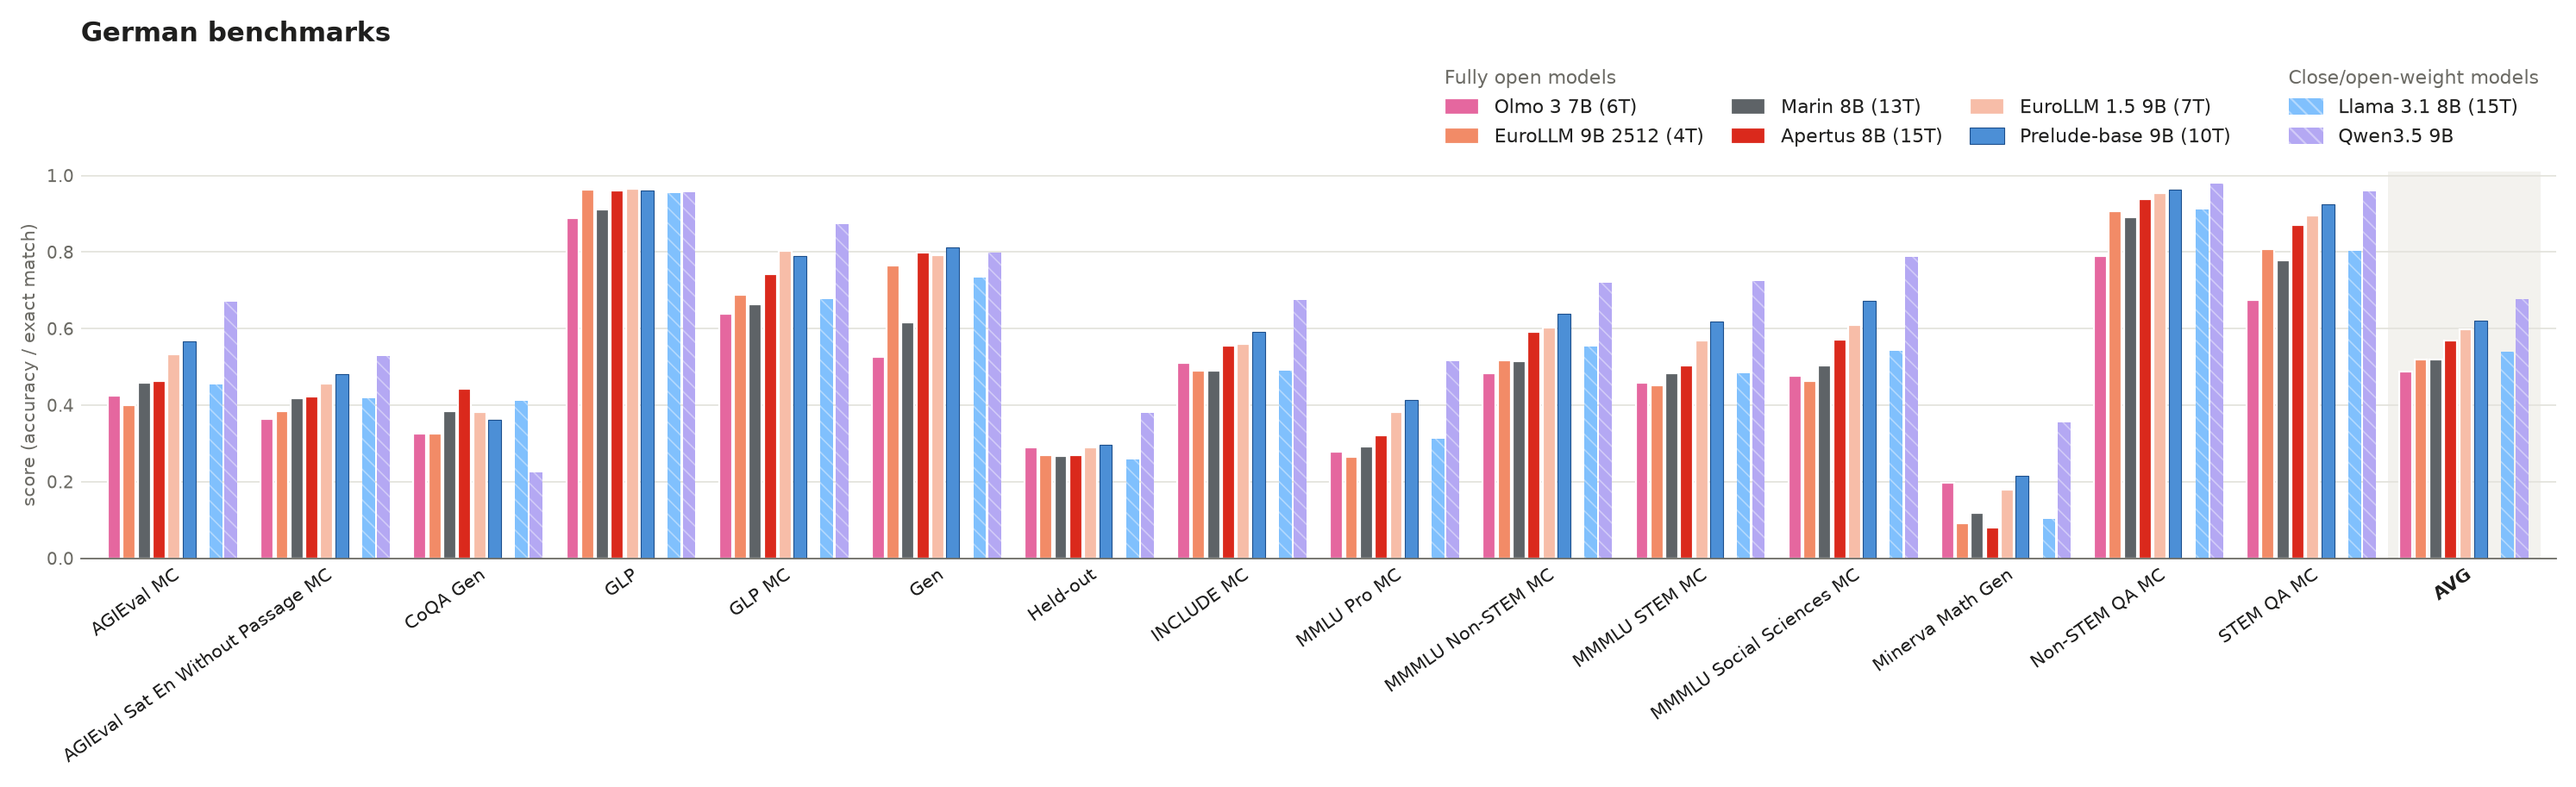
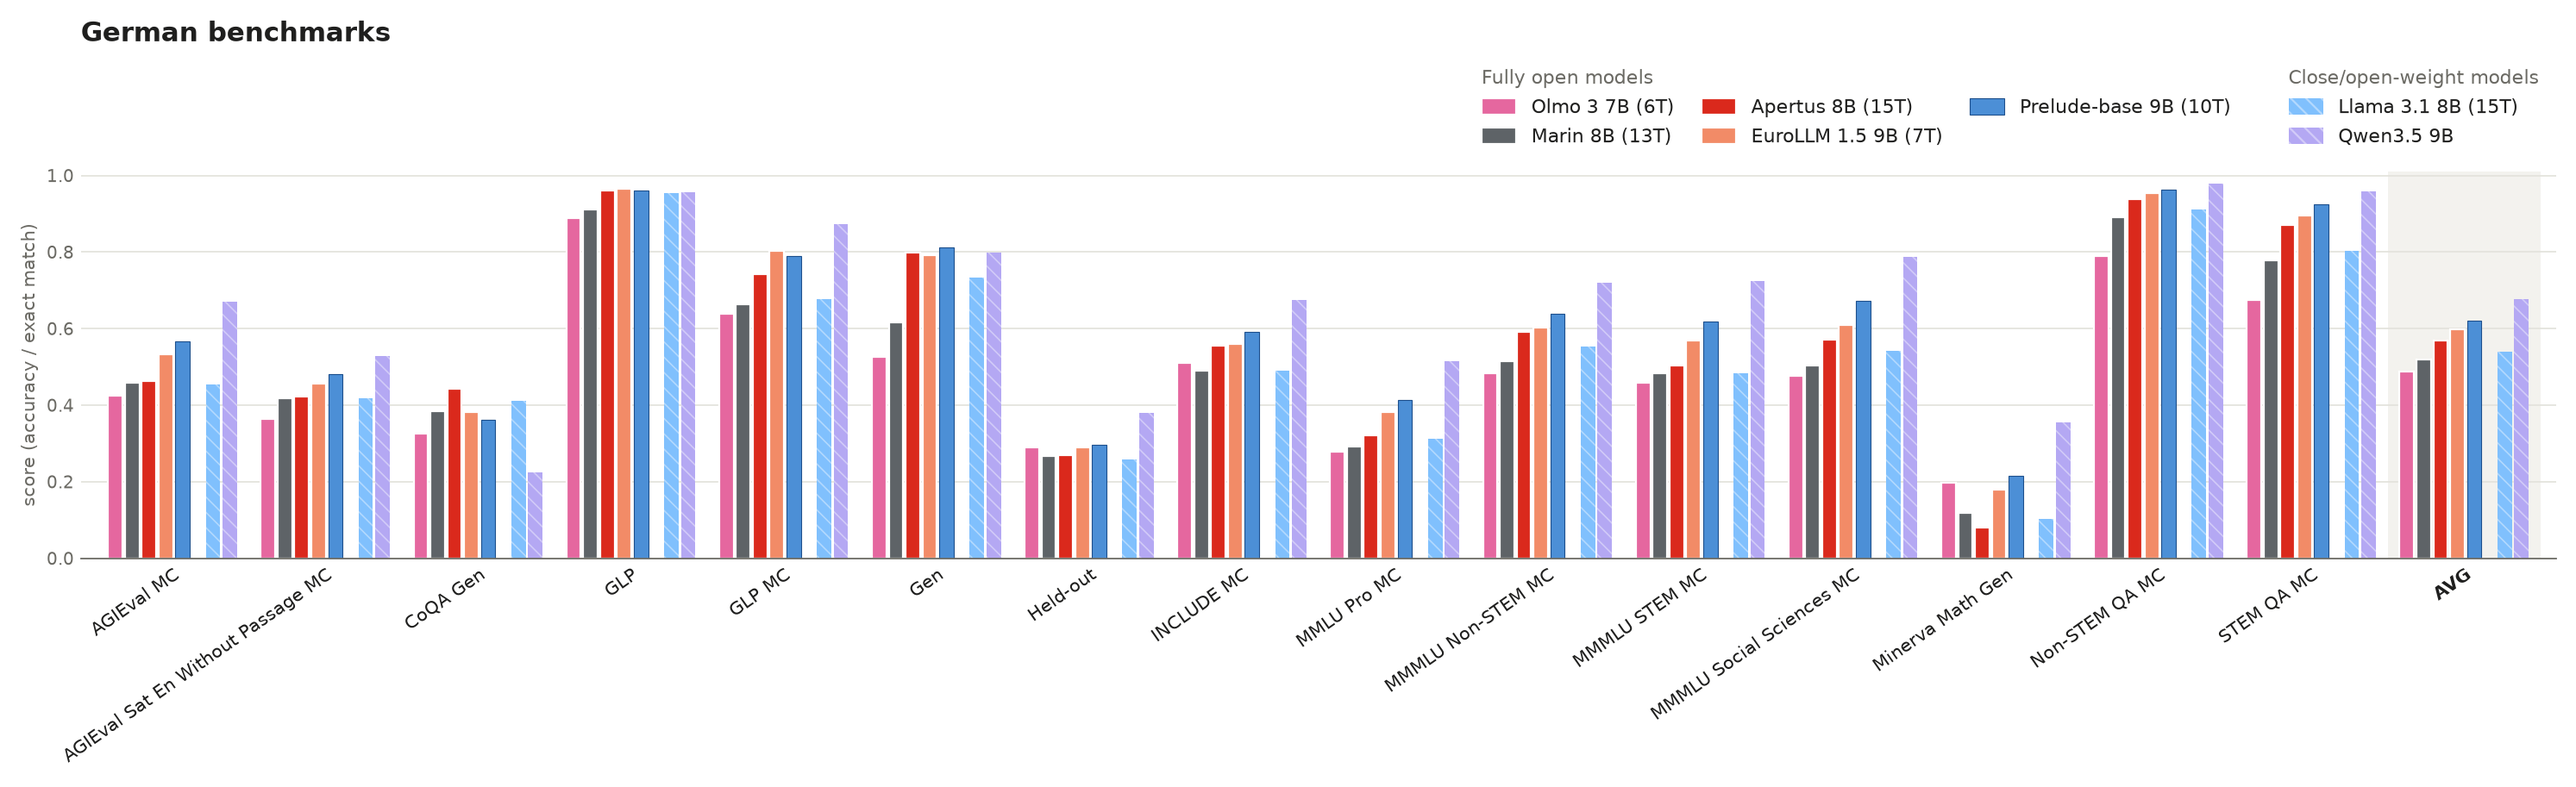
update

Changed region(s): [[0.0311, 0.2453, 0.9963, 0.7054], [0.5604, 0.092, 0.8718, 0.184]]

diff --git a/prelude-evaluations-model-card/plot_results.py b/prelude-evaluations-model-card/plot_results.py
@@ -12,8 +12,9 @@ German, Norwegian and Finnish.
 
 For each category: a markdown table (models x benchmark groups, plus AVG, best
 value of each column in bold) and a grouped bar plot
-figures/plot_results_<category>_all.png (English and Multilingual also
-_decontaminated_only / _non_decontaminated_only). The tables and figures are
+figures/plot_results_<category>_all.svg (English and Multilingual also
+_decontaminated_only / _non_decontaminated_only), with .png and .pdf copies.
+The README and the model card link the vector .svg, crisp at any resolution. The tables and figures are
 also written to README.md (decontaminated_only for English and Multilingual,
 all for German, Norwegian and Finnish), whose text above "# Results" is kept and
 everything from it on regenerated. Each
@@ -180,7 +181,7 @@ TRANSLATION_METRICS = ["chrf", "chrf++", "bleu"]   # side panel, not in AVG
 # AVG, weakest first), then Prelude.
 ENG_DEU_MODELS = {
     "prelude_anneal2t": "Prelude 9B + 2T anneal",
-    "eurollm_9B_2512": "EuroLLM 9B 2512",
+    #"eurollm_9B_2512": "EuroLLM 9B 2512",   # superseded by EuroLLM 1.5
     "eurollm_1.5_9B": "EuroLLM 1.5 9B",
     "apertus_8b": "Apertus 8B",
     "olmo_3_1025_7b": "Olmo 3 7B",
@@ -200,7 +201,7 @@ MULTILINGUAL_MODELS = {
     "meta-llama/Llama-3.1-8B": "Llama 3.1 8B",
 }
 # NorEval covers ~80 models; the baselines are picked automatically as those
-# also used for English / German / Multilingual (see norwegian_models).
+# also used for English / German (see norwegian_models).
 NOREVAL_PRELUDE = {"openeurollm/prelude-base": "Prelude 9B + 2T anneal"}
 NOREVAL_SHOTS = 0
 # Shown names where they differ from the internal one (both Prelude rows are
@@ -272,7 +273,7 @@ STYLES = {   # name -> (colour, style)
     # EuroLLM is Apache 2.0; counted as open (data not released)
     "EuroLLM 9B": (lighten("#ec5926", 0.3), OPEN),    # Utter logo orange
     "EuroLLM 9B 2512": (lighten("#ec5926", 0.3), OPEN),
-    "EuroLLM 1.5 9B": (lighten("#ec5926", 0.6), OPEN),   # lighter: shown next to 2512
+    "EuroLLM 1.5 9B": (lighten("#ec5926", 0.3), OPEN),
     "Qwen3 8B": (lighten("#6950e8"), WEIGHTS),    # Qwen logo color
     "Qwen3.5 9B": (lighten("#6950e8"), WEIGHTS),    # Qwen logo color
     "Llama 3.1 8B": (lighten("#0081fb"), WEIGHTS),    # Meta logo blue
@@ -347,8 +348,8 @@ def latest(df: pd.DataFrame) -> pd.DataFrame:
 # tokens), shown in the row label.
 KNOWN_TOKENS = {
     "EuroLLM 9B": 4e12,         # EuroLLM-9B model card
-    "EuroLLM 9B 2512": 4e12,    # as in the ellamind scores (NorEval lacks it)
-    "Llama 3.1 8B": 15e12,      # as in the ellamind scores (NorEval lacks it)
+    "EuroLLM 9B 2512": 4e12,    # as in the ellamind scores
+    "Llama 3.1 8B": 15e12,      # as in the ellamind scores
     "Olmo 3 7B": 6e12,          # 6.1T in the ellamind scores
     "Apertus 8B": 15e12,        # as in the ellamind scores
     "EuroLLM 1.5 9B": 7e12,
@@ -430,12 +431,10 @@ def norm_name(name: str) -> str:
 
 
 def norwegian_models(df: pd.DataFrame) -> dict[str, str]:
-    """NorEval model id -> our model name, for Prelude and every baseline of
-    the other categories that NorEval has. The HF id is matched before the
-    display name, so EuroLLM-9B-2512 maps to "EuroLLM 9B 2512" rather than
-    the original "EuroLLM 9B"."""
-    ours = [n for n in (*ENG_DEU_MODELS.values(), *MULTILINGUAL_MODELS.values())
-            if not n.startswith("Prelude")]
+    """NorEval model id -> our model name, for Prelude and every English /
+    German baseline that NorEval has (the multilingual list is not used: its
+    "EuroLLM 9B" would match EuroLLM-9B-2512, superseded by EuroLLM 1.5)."""
+    ours = [n for n in ENG_DEU_MODELS.values() if not n.startswith("Prelude")]
     by_norm = {norm_name(n): n for n in ours}
     models = dict(NOREVAL_PRELUDE)
     for model, display in df[["model", "model_display_name"]].drop_duplicates().values:
@@ -653,10 +652,16 @@ def plot(name: str, df: pd.DataFrame, acc: pd.DataFrame,
     legend_top = legend_boxes(fig, ax, names)   # after layout: positions final
     fig.text(ax.get_position().x0, legend_top + 0.1 / height, f"{name} benchmarks",
              ha="left", va="bottom", fontsize=14, fontweight="semibold", color=INK)
-    fig.savefig(out, dpi=160, facecolor="white", bbox_inches="tight",
-                pad_inches=0.15)
+    # Vector .svg for the README / model card, plus .png and .pdf copies.
+    # Fixed hash salt and no dates so unchanged figures give identical files.
+    plt.rcParams["svg.hashsalt"] = "prelude"
+    base = os.path.splitext(out)[0]
+    for ext, meta in ((".svg", {"Date": None}), (".png", {}),
+                      (".pdf", {"CreationDate": None, "ModDate": None})):
+        fig.savefig(base + ext, dpi=160, facecolor="white", bbox_inches="tight",
+                    pad_inches=0.15, metadata=meta)
+        print(f"wrote {base + ext}")
     plt.close(fig)
-    print(f"wrote {out}")
 
 
 README_INTRO = """# Prelude evaluations
@@ -766,7 +771,7 @@ def main():
         subsets = (SUBSETS if name in DECONTAMINATION_SPLITS
                    else {"all": SUBSETS["all"]})
         for suffix, (title, keep) in subsets.items():
-            figure = f"figures/plot_results_{name.lower()}_{suffix}.png"
+            figure = f"figures/plot_results_{name.lower()}_{suffix}.svg"
             md = report(name + title, df[df["task"].map(keep)], figure)
             if suffix == ("decontaminated_only" if len(subsets) > 1 else "all"):
                 sections.append((name + title, figure, md))

diff --git a/prelude-evaluations-model-card/README.md b/prelude-evaluations-model-card/README.md
@@ -31,16 +31,15 @@ model repo in one commit, which needs an HF token with write access
 
 # Results
 
-Automatically generated by `plot_results.py` on 2026-11-18; do not edit below this line.
+Automatically generated by `plot_results.py` on 2026-11-20; do not edit below this line.
 
 ## English (decontaminated only)
 
-![English (decontaminated only) results](figures/plot_results_english_decontaminated_only.png)
+![English (decontaminated only) results](figures/plot_results_english_decontaminated_only.svg)
 
 | model | GPQA | Gen | MMLU Humanities MC | MMLU Other MC | MMLU STEM MC | MMLU Social Sciences MC | Math | Minerva Math Gen | Non-STEM QA MC | STEM QA MC | AVG |
 |---|---:|---:|---:|---:|---:|---:|---:|---:|---:|---:|---:|
 | ***Fully open models*** | | | | | | | | | | | |
-| EuroLLM 9B 2512 (4T) | 0.29 | 0.72 | 0.62 | 0.61 | 0.48 | 0.64 | 0.07 | 0.12 | 0.73 | 0.77 | 0.50 |
 | Apertus 8B (15T) | 0.29 | 0.76 | 0.69 | 0.68 | 0.54 | 0.74 | 0.31 | 0.13 | 0.78 | 0.85 | 0.58 |
 | Marin 8B (13T) | 0.27 | **0.79** | 0.71 | 0.71 | 0.59 | 0.77 | 0.44 | 0.24 | 0.81 | 0.86 | 0.62 |
 | EuroLLM 1.5 9B (7T) | 0.30 | 0.76 | 0.72 | 0.72 | 0.61 | 0.77 | 0.47 | 0.31 | 0.79 | 0.87 | 0.63 |
@@ -52,7 +51,7 @@ Automatically generated by `plot_results.py` on 2026-11-18; do not edit below th
 
 ## Multilingual (decontaminated only)
 
-![Multilingual (decontaminated only) results](figures/plot_results_multilingual_decontaminated_only.png)
+![Multilingual (decontaminated only) results](figures/plot_results_multilingual_decontaminated_only.svg)
 
 | model | ARC Challenge MT | Belebele | Global MMLU | INCLUDE | MultiBLiMP | XCSQA | xHellaSwag | AVG |
 |---|---:|---:|---:|---:|---:|---:|---:|---:|
@@ -68,13 +67,12 @@ Automatically generated by `plot_results.py` on 2026-11-18; do not edit below th
 
 ## German
 
-![German results](figures/plot_results_german_all.png)
+![German results](figures/plot_results_german_all.svg)
 
 | model | AGIEval MC | AGIEval Sat En Without Passage MC | CoQA Gen | GLP | GLP MC | Gen | Held-out | INCLUDE MC | MMLU Pro MC | MMMLU Non-STEM MC | MMMLU STEM MC | MMMLU Social Sciences MC | Minerva Math Gen | Non-STEM QA MC | STEM QA MC | AVG |
 |---|---:|---:|---:|---:|---:|---:|---:|---:|---:|---:|---:|---:|---:|---:|---:|---:|
 | ***Fully open models*** | | | | | | | | | | | | | | | | |
 | Olmo 3 7B (6T) | 0.42 | 0.36 | 0.33 | 0.89 | 0.64 | 0.53 | 0.29 | 0.51 | 0.28 | 0.48 | 0.46 | 0.48 | 0.20 | 0.79 | 0.67 | 0.49 |
-| EuroLLM 9B 2512 (4T) | 0.40 | 0.38 | 0.32 | **0.96** | 0.69 | 0.76 | 0.27 | 0.49 | 0.26 | 0.52 | 0.45 | 0.46 | 0.09 | 0.91 | 0.81 | 0.52 |
 | Marin 8B (13T) | 0.46 | 0.42 | 0.38 | 0.91 | 0.66 | 0.62 | 0.27 | 0.49 | 0.29 | 0.51 | 0.48 | 0.50 | 0.12 | 0.89 | 0.78 | 0.52 |
 | Apertus 8B (15T) | 0.46 | 0.42 | **0.44** | **0.96** | 0.74 | 0.80 | 0.27 | 0.56 | 0.32 | 0.59 | 0.50 | 0.57 | 0.08 | 0.94 | 0.87 | 0.57 |
 | EuroLLM 1.5 9B (7T) | 0.53 | 0.46 | 0.38 | **0.96** | 0.80 | 0.79 | 0.29 | 0.56 | 0.38 | 0.60 | 0.57 | 0.61 | 0.18 | 0.95 | 0.90 | 0.60 |
@@ -85,24 +83,23 @@ Automatically generated by `plot_results.py` on 2026-11-18; do not edit below th
 
 ## Norwegian
 
-![Norwegian results](figures/plot_results_norwegian_all.png)
+![Norwegian results](figures/plot_results_norwegian_all.svg)
 
 | model | ASK GEC | MultiBLiMP SME | NCB | NRK Quiz QA NB | NRK Quiz QA NN | NoCoLA | NoReC Document | NoReC Sentence | NorBelebele | NorCommonsenseQA NB | NorCommonsenseQA NN | NorIdiom NB | NorIdiom NN | NorOpenBookQA NB | NorOpenBookQA NN | NorOpenBookQA no-fact NB | NorOpenBookQA no-fact NN | NorQuAD | NorTruthfulQA MC NB | NorTruthfulQA MC NN | SLIDE | NorSumm NB→NN | NorSumm NN→NB | Tatoeba EN→NB | Tatoeba EN→NN | Tatoeba NB→EN | Tatoeba NB→SME | Tatoeba NN→EN | Tatoeba SME→NB | AVG |
 |---|---:|---:|---:|---:|---:|---:|---:|---:|---:|---:|---:|---:|---:|---:|---:|---:|---:|---:|---:|---:|---:|---:|---:|---:|---:|---:|---:|---:|---:|---:|
 | ***Fully open models*** | | | | | | | | | | | | | | | | | | | | | | | | | | | | | | |
 | Olmo 3 7B (6T) | 0.21 | 0.64 | 0.71 | 0.41 | 0.37 | 0.72 | 0.62 | 0.48 | 0.58 | 0.39 | 0.25 | 0.05 | 0.06 | 0.61 | 0.47 | 0.39 | 0.33 | 0.48 | 0.46 | 0.53 | 0.36 | 41.5 | 46.8 | 29.0 | 10.3 | 49.2 | 0.5 | 38.5 | 1.2 | 0.43 |
 | Marin 8B (13T) | 0.03 | 0.66 | 0.72 | 0.44 | 0.41 | 0.75 | 0.89 | 0.74 | 0.54 | 0.40 | 0.35 | 0.07 | 0.09 | 0.60 | 0.46 | 0.38 | 0.33 | 0.52 | 0.53 | 0.51 | 0.35 | 41.6 | 16.3 | 31.2 | 12.2 | 52.3 | 0.5 | 30.4 | 1.2 | 0.46 |
-| EuroLLM 9B 2512 (4T) | **0.47** | 0.67 | 0.79 | 0.53 | 0.50 | 0.85 | 0.78 | 0.68 | 0.62 | 0.71 | 0.46 | 0.32 | 0.24 | 0.78 | 0.72 | 0.55 | 0.54 | 0.46 | 0.53 | 0.49 | 0.57 | 52.5 | 67.6 | **56.1** | 25.9 | **60.9** | 0.3 | 57.5 | 4.3 | 0.58 |
 | Apertus 8B (15T) | 0.45 | **0.75** | 0.73 | 0.54 | 0.52 | 0.85 | 0.65 | 0.61 | 0.67 | 0.67 | 0.46 | **0.37** | 0.42 | 0.81 | 0.79 | 0.59 | 0.50 | 0.65 | 0.50 | 0.49 | 0.49 | 66.5 | 72.5 | 54.3 | 43.3 | 59.6 | **2.0** | 57.7 | 13.3 | 0.60 |
-| EuroLLM 1.5 9B (7T) | **0.47** | 0.69 | 0.80 | **0.57** | 0.54 | **0.86** | 0.77 | 0.72 | 0.75 | 0.72 | 0.56 | 0.33 | 0.21 | 0.84 | 0.81 | 0.64 | 0.60 | **0.68** | **0.60** | 0.60 | 0.48 | 61.3 | **77.4** | 55.6 | 31.9 | 60.3 | 0.5 | 56.8 | 3.5 | 0.63 |
-| Prelude-base 9B (10T) | **0.47** | 0.68 | **0.81** | 0.55 | **0.56** | **0.86** | 0.71 | **0.81** | 0.75 | 0.69 | 0.58 | 0.35 | **0.56** | 0.86 | 0.81 | 0.71 | 0.67 | 0.53 | 0.57 | 0.67 | 0.56 | **67.8** | 76.2 | 55.6 | **46.2** | 58.2 | 0.4 | **59.4** | 3.0 | 0.65 |
+| EuroLLM 1.5 9B (7T) | **0.47** | 0.69 | 0.80 | **0.57** | 0.54 | **0.86** | 0.77 | 0.72 | 0.75 | 0.72 | 0.56 | 0.33 | 0.21 | 0.84 | 0.81 | 0.64 | 0.60 | **0.68** | **0.60** | 0.60 | 0.48 | 61.3 | **77.4** | **55.6** | 31.9 | **60.3** | 0.5 | 56.8 | 3.5 | 0.63 |
+| Prelude-base 9B (10T) | **0.47** | 0.68 | **0.81** | 0.55 | **0.56** | **0.86** | 0.71 | **0.81** | 0.75 | 0.69 | 0.58 | 0.35 | **0.56** | 0.86 | 0.81 | 0.71 | 0.67 | 0.53 | 0.57 | 0.67 | 0.56 | **67.8** | 76.2 | **55.6** | **46.2** | 58.2 | 0.4 | **59.4** | 3.0 | 0.65 |
 | ***Close/open-weight models*** | | | | | | | | | | | | | | | | | | | | | | | | | | | | | | |
 | Llama 3.1 8B (15T) | 0.16 | 0.67 | 0.76 | 0.47 | 0.47 | 0.81 | 0.76 | 0.63 | 0.60 | 0.49 | 0.36 | 0.15 | 0.19 | 0.67 | 0.62 | 0.43 | 0.40 | 0.61 | 0.57 | 0.54 | 0.57 | 56.2 | 61.7 | 44.8 | 31.4 | 57.9 | 0.3 | 54.6 | 2.1 | 0.52 |
 | Qwen3.5 9B | 0.36 | 0.69 | 0.78 | 0.56 | 0.53 | 0.80 | **0.90** | 0.61 | **0.86** | **0.75** | **0.60** | 0.24 | 0.24 | **0.89** | **0.87** | **0.81** | **0.76** | 0.51 | 0.59 | **0.81** | **0.64** | 63.6 | 71.3 | 50.7 | 35.5 | 60.2 | 0.7 | 56.5 | **14.6** | **0.66** |
 
 ## Finnish
 
-![Finnish results](figures/plot_results_finnish_all.png)
+![Finnish results](figures/plot_results_finnish_all.svg)
 
 | model | ARC Challenge FI | Belebele FI | FIN-bench Analogies | FIN-bench Emotions | FIN-bench General Knowledge | FIN-bench HHH Alignment | FIN-bench Similarities | GoldenSwag FI | SIB-200 FI | SQuAD FI | ScandiSent FI | TruthfulQA FI | AVG |
 |---|---:|---:|---:|---:|---:|---:|---:|---:|---:|---:|---:|---:|---:|

diff --git a/prelude-evaluations-model-card/model_card_evaluation.md b/prelude-evaluations-model-card/model_card_evaluation.md
@@ -6,9 +6,9 @@ We report evaluations in this model card on English and Multilingual benchmarks 
 We show here the performance on English & Multilingual evaluations.
 Note that we report the performance of models which are trained mostly in English (Olmo3 and Marin) to illustrate the benefit over English models for over languages even though those models are not expected to perform very well on non English benchmarks.
 
-![English benchmarks (decontaminated tasks)](figures/plot_results_english_decontaminated_only.png)
+![English benchmarks (decontaminated tasks)](figures/plot_results_english_decontaminated_only.svg)
 
-![Multilingual benchmarks (decontaminated tasks)](figures/plot_results_multilingual_decontaminated_only.png)
+![Multilingual benchmarks (decontaminated tasks)](figures/plot_results_multilingual_decontaminated_only.svg)
 
 Those tasks were all decontaminated from our training data, we do not know whether they are part of the training set of other methods.
 
@@ -16,11 +16,11 @@ Those tasks were all decontaminated from our training data, we do not know wheth
 We show the performance in German, Norwegian (NorEval) and Finnish. 
 Those tasks were not explicitly decontaminated but we do not expect large contamination.
 
-![German benchmarks](figures/plot_results_german_all.png)
+![German benchmarks](figures/plot_results_german_all.svg)
 
-![Norwegian benchmarks (NorEval)](figures/plot_results_norwegian_all.png)
+![Norwegian benchmarks (NorEval)](figures/plot_results_norwegian_all.svg)
 
-![Finnish benchmarks (FIN-bench)](figures/plot_results_finnish_all.png)
+![Finnish benchmarks (FIN-bench)](figures/plot_results_finnish_all.svg)
 
 **Other evaluations and details.** 
 Evaluations including on tasks which were not explicitly decontaminated are available [here](https://github.com/OpenEuroLLM/notebooks/tree/main/prelude-evaluations-model-card).
